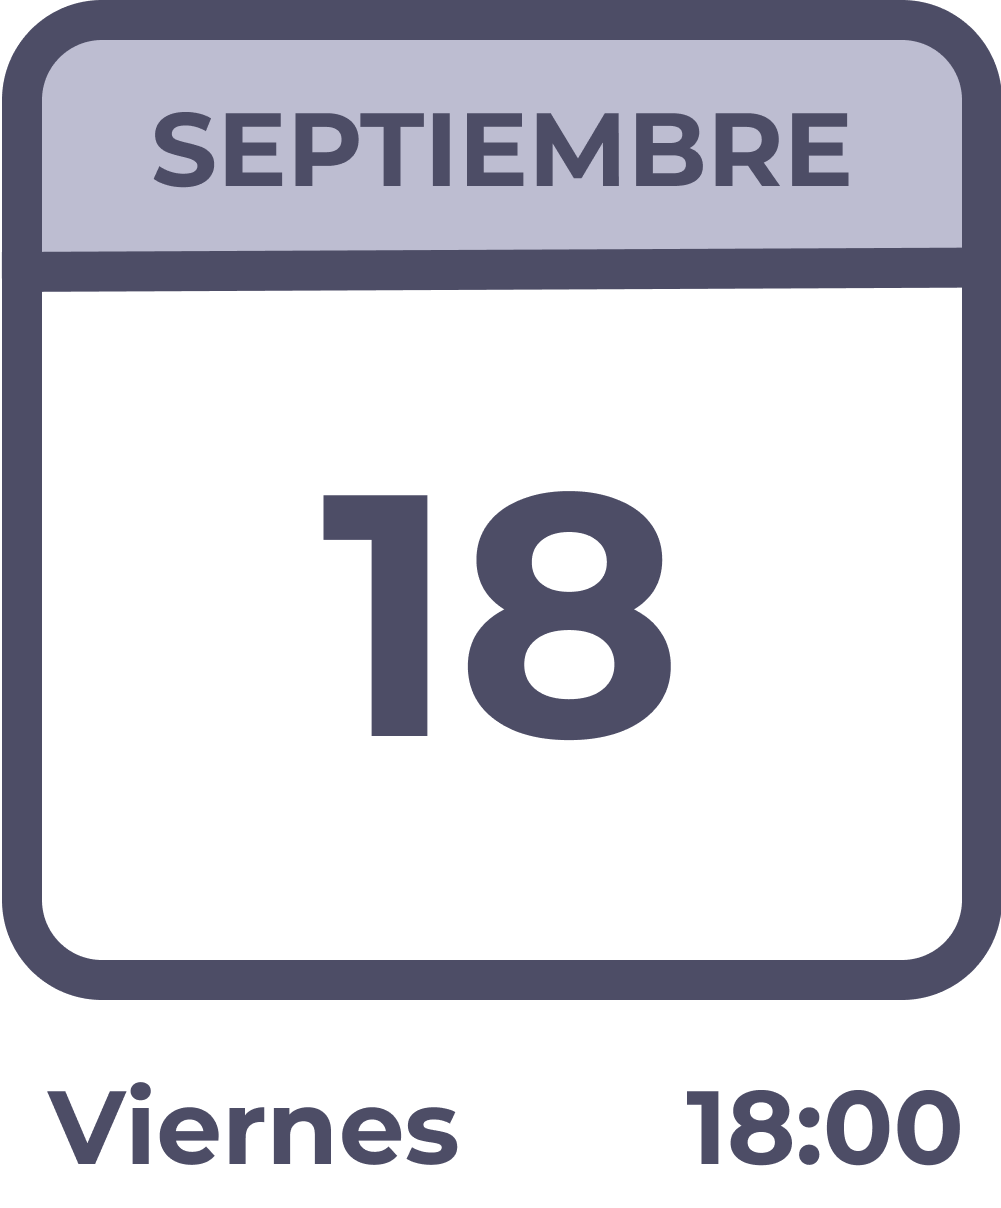
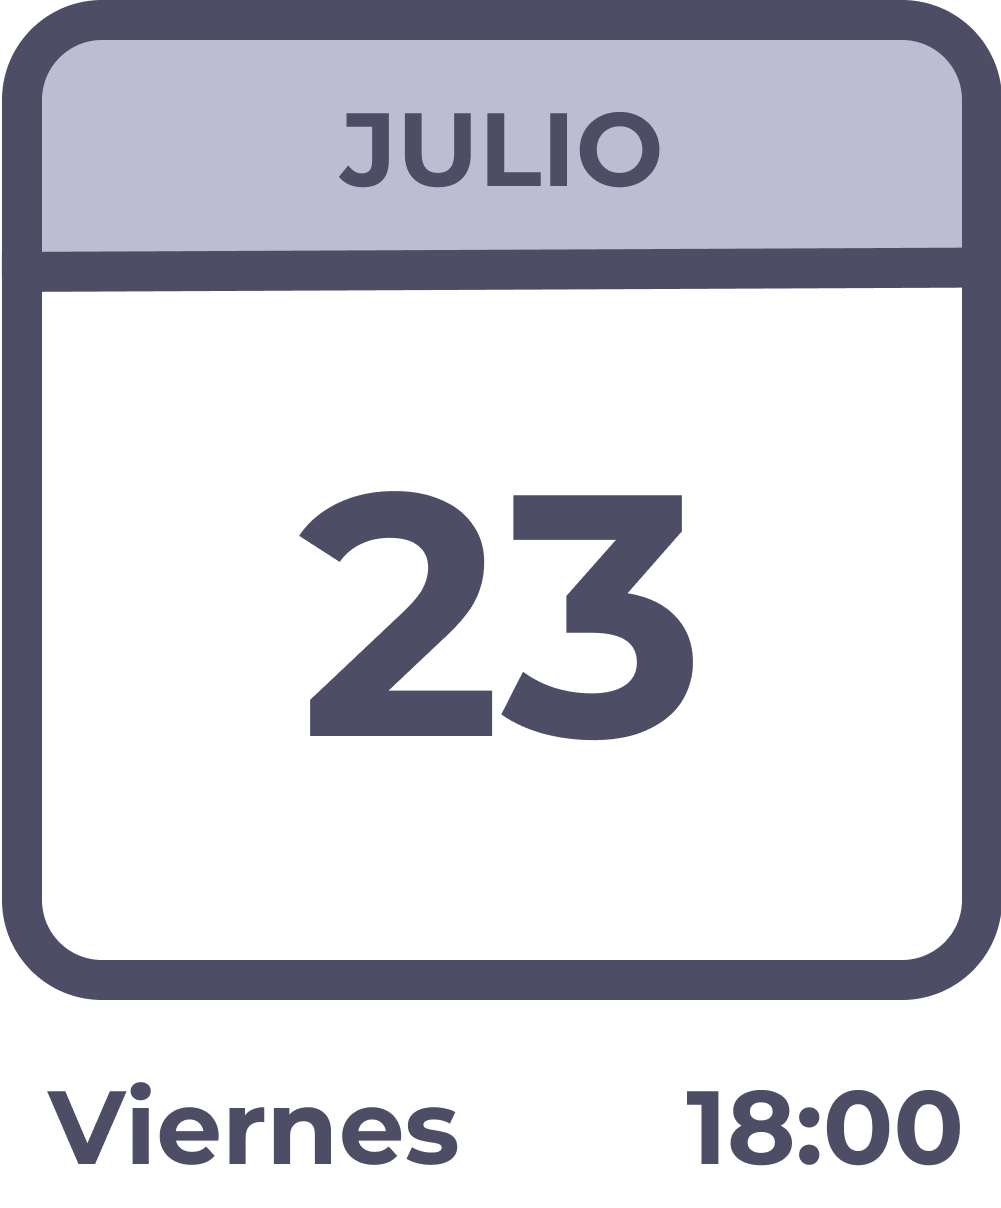
Date update

Changed region(s): [[0.2787, 0.3982, 0.7123, 0.6126], [0.1548, 0.0919, 0.8671, 0.1531], [0.3097, 0.5207, 0.3716, 0.6126]]

diff --git a/src/components/StickyCTA/index.js b/src/components/StickyCTA/index.js
@@ -25,11 +25,11 @@ export default class ScrollArrow extends Component {
 		>
 			<div className={styles.StickyCTA}>
 				<div className={styles.calendarIcon}>
-					<span>Set</span>
-					<span>18</span>
+					<span>Jul</span>
+					<span>23</span>
 				</div>
 				<div className={styles.dayTime}>
-					<span>Septiembre 18</span>
+					<span>Julio 23</span>
 					<span>Viernes 18:00</span>
 				</div>
 				<div style={{ margin: 'auto' }} />

diff --git a/src/pages/index.js b/src/pages/index.js
@@ -190,7 +190,7 @@ const IndexPage = () => (
 				</div>
 				<div className={styles.sixth}>
 					<strong>When</strong>
-					<p>18 Sept 2020, 18:00</p>
+					<p>23 Julio 2021, 18:00</p>
 				</div>
 				<div className={styles.sixth}>
 					<strong>Who</strong>
